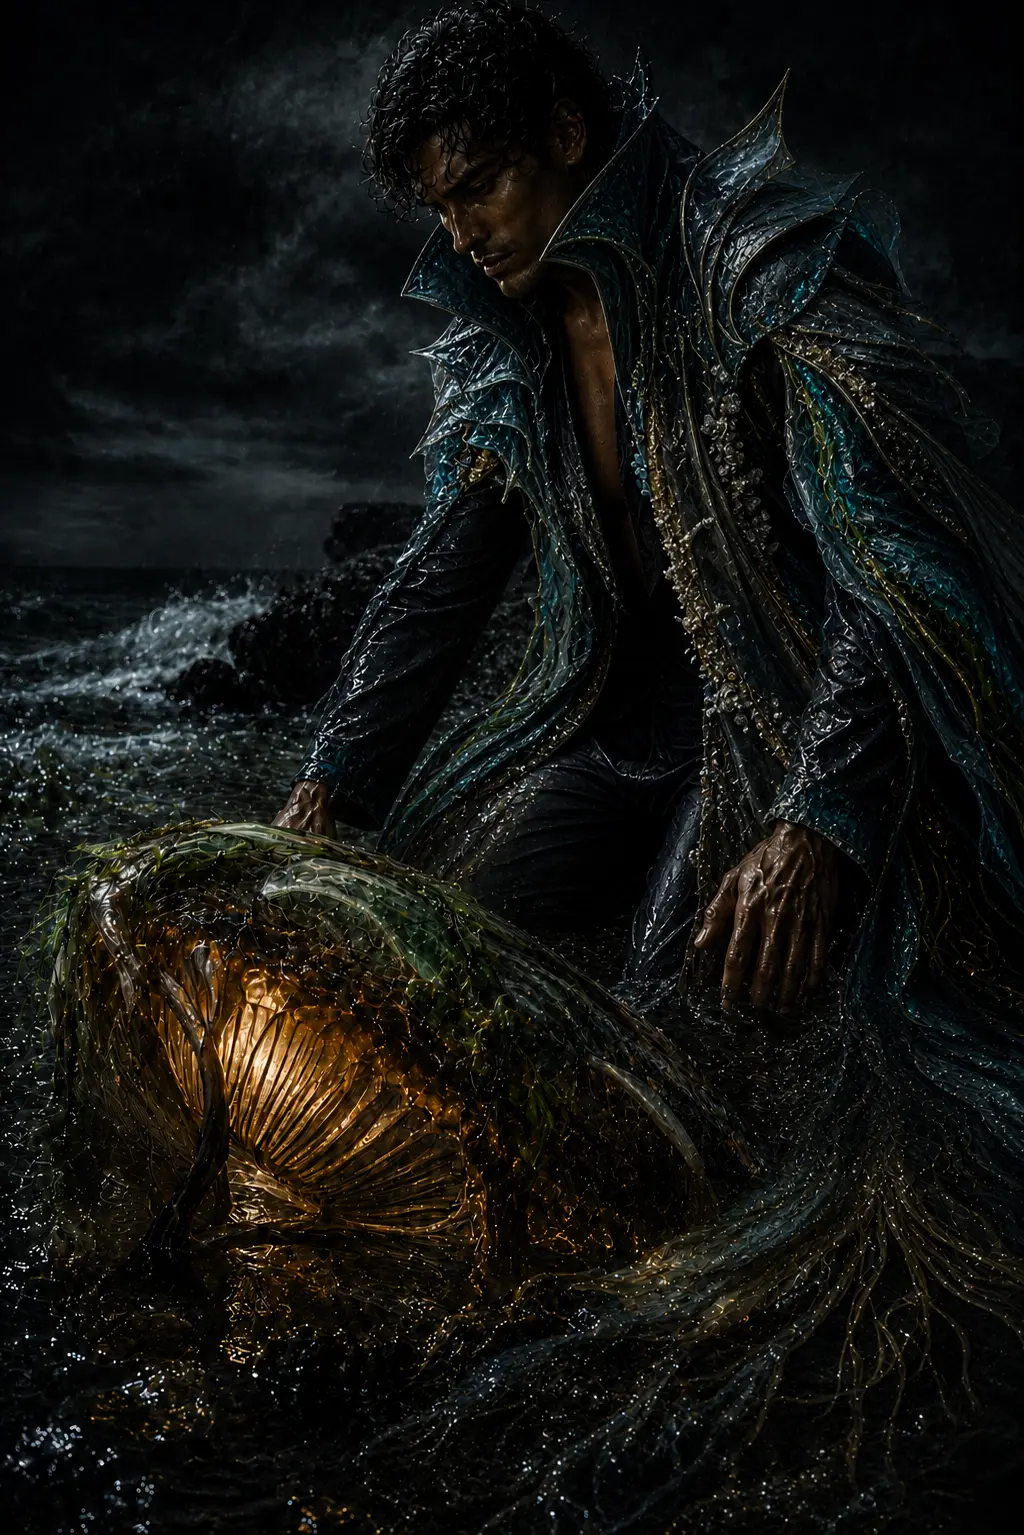
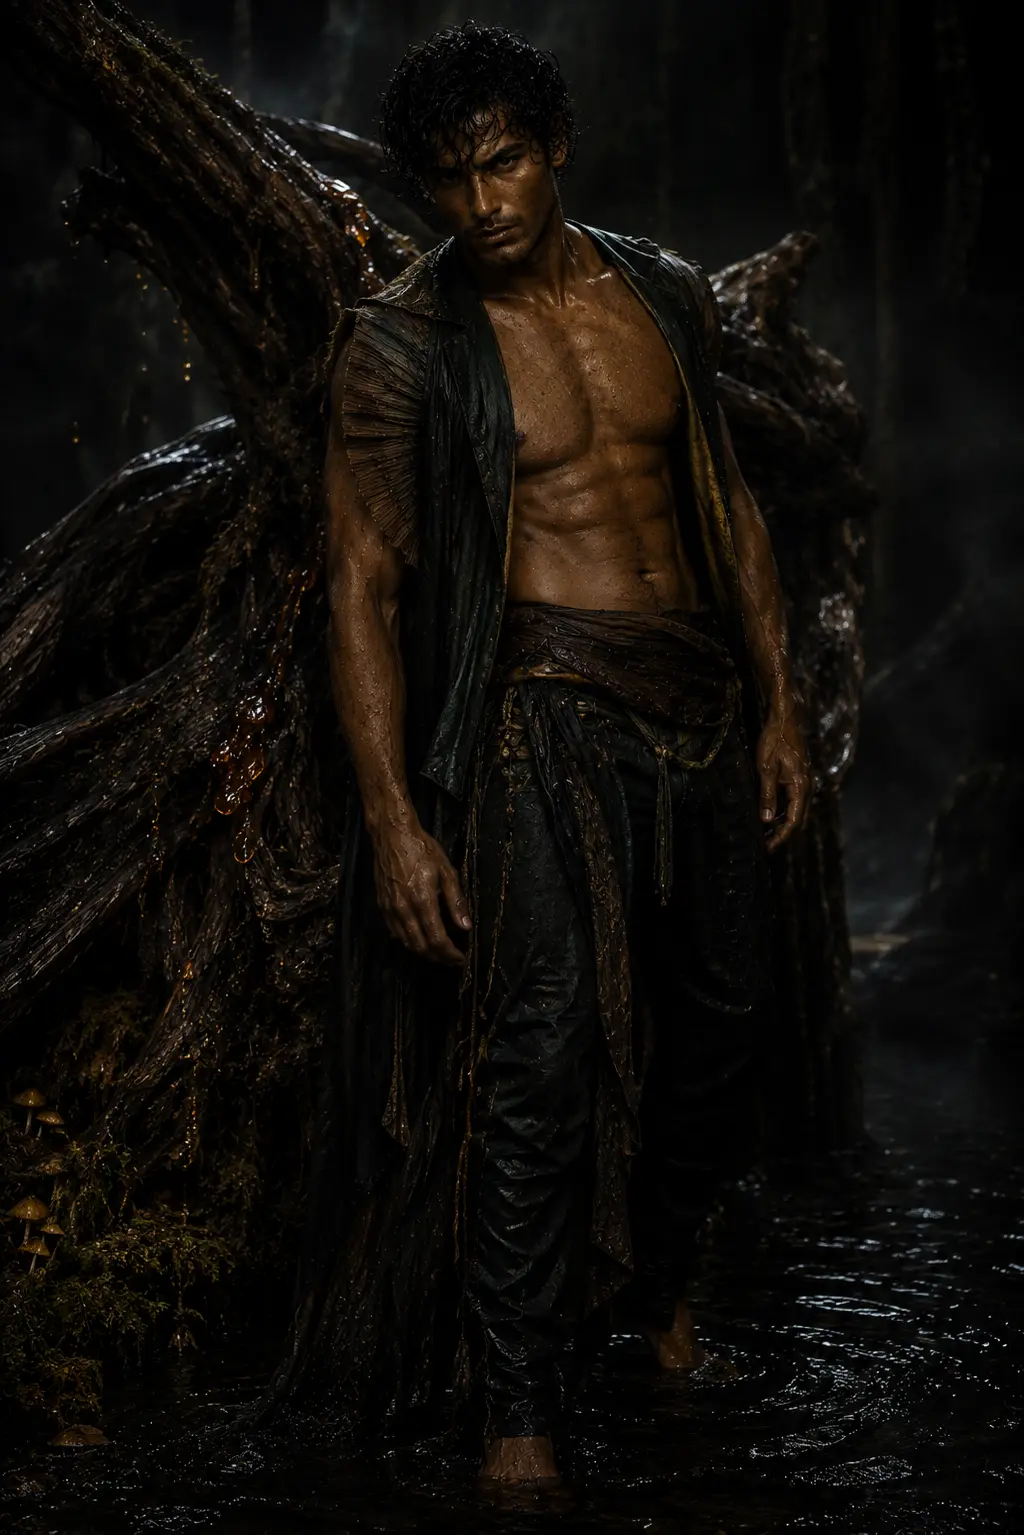
Refine Sovereign Tide campaign portrait

diff --git a/index.html b/index.html
@@ -355,7 +355,7 @@
 <div class="badge">In Development</div><div class="card-art"><img alt="Dark cherries and plums glowing in an ancient evergreen forest" class="art-svg" decoding="async" loading="lazy" src="assets/crimson-grove.webp?v=20260823-portraits"/></div><div class="card-copy"><div class="eyebrow">Dark orchard / cold conifer woods</div><h3>CRIMSON GROVE</h3><div class="tension">Fruit burning red beneath ancient trees.</div><div class="notes">Black cherry · plum · dark rose · evergreen · cold woods · amber</div><span class="card-cta">Enter the story <span aria-hidden="true">→</span></span></div>
 </a>
 <a aria-label="Enter the Sovereign Tide story" class="card" href="fragrances/sovereign-tide/">
-<div class="badge">In Development</div><div class="card-art"><img alt="Marine algae, wet earth, mushroom, driftwood, resin and storm-dark water" class="art-svg" decoding="async" loading="lazy" src="assets/sovereign-tide.webp?v=20260823-portraits"/></div><div class="card-copy"><div class="eyebrow">Polished natural luxury / strange marine earth</div><h3>SOVEREIGN TIDE</h3><div class="tension">The sea meets the living floor of the forest.</div><div class="notes">Marine algae · wet earth · mushroom · driftwood · sandalwood · resin</div><span class="card-cta">Enter the story <span aria-hidden="true">→</span></span></div>
+<div class="badge">In Development</div><div class="card-art"><img alt="Marine algae, wet earth, mushroom, driftwood, resin and storm-dark water" class="art-svg" decoding="async" loading="lazy" src="assets/sovereign-tide.webp?v=20260823-arcaneum-v2"/></div><div class="card-copy"><div class="eyebrow">Polished natural luxury / strange marine earth</div><h3>SOVEREIGN TIDE</h3><div class="tension">The sea meets the living floor of the forest.</div><div class="notes">Marine algae · wet earth · mushroom · driftwood · sandalwood · resin</div><span class="card-cta">Enter the story <span aria-hidden="true">→</span></span></div>
 </a>
 <a aria-label="Enter the Velvet Pulse story" class="card" href="fragrances/velvet-pulse/">
 <div class="badge">In Development</div><div class="card-art"><img alt="Rose petals, green leaves, velvet, powder and intimate warm musk" class="art-svg" decoding="async" loading="lazy" src="assets/velvet-pulse.webp?v=20260823-portraits"/></div><div class="card-copy"><div class="eyebrow">Sparkling motion / plush skin intimacy</div><h3>VELVET PULSE</h3><div class="tension">Electric green light beneath soft skin.</div><div class="notes">Green leaves · airy rose · suede · powder · sandalwood · skin musk</div><span class="card-cta">Enter the story <span aria-hidden="true">→</span></span></div>

diff --git a/fragrances/sovereign-tide/index.html b/fragrances/sovereign-tide/index.html
@@ -10,7 +10,7 @@
   <link rel="preconnect" href="https://fonts.googleapis.com" />
   <link rel="preconnect" href="https://fonts.gstatic.com" crossorigin />
   <link href="https://fonts.googleapis.com/css2?family=Cormorant+Garamond:wght@400;500;600&amp;family=Manrope:wght@300;400;500;600&amp;display=swap" rel="stylesheet" />
-  <link rel="preload" as="image" href="../../assets/sovereign-tide.webp?v=20260823-portraits" />
+  <link rel="preload" as="image" href="../../assets/sovereign-tide.webp?v=20260823-arcaneum-v2" />
   <link rel="stylesheet" href="../story.css" />
   <script type="module" src="../story.js"></script>
 </head>
@@ -23,7 +23,7 @@
   </header>
 
   <main>
-    <section class="story-hero" style="--scene:url('../../assets/sovereign-tide.webp?v=20260823-portraits');--scene-position:center;--scene-position-mobile:50% top">
+    <section class="story-hero" style="--scene:url('../../assets/sovereign-tide.webp?v=20260823-arcaneum-v2');--scene-position:center;--scene-position-mobile:50% top">
       <span class="sr-only">Marine algae, wet earth, mushroom, driftwood, resin, and storm-dark water.</span>
       <div class="hero-content shell">
         <div class="hero-copy" data-reveal>

diff --git a/fragrances/wild-sovereign/index.html b/fragrances/wild-sovereign/index.html
@@ -136,7 +136,7 @@
 
   <footer class="story-footer">
     <div class="shell">
-      <a class="next-story" href="../sovereign-tide/"><img src="../../assets/sovereign-tide.webp?v=20260823-portraits" alt="Sovereign Tide olfactory world" /><div><div class="eyebrow">Next World</div><h2>Sovereign Tide</h2></div><span class="next-arrow" aria-hidden="true">→</span></a>
+      <a class="next-story" href="../sovereign-tide/"><img src="../../assets/sovereign-tide.webp?v=20260823-arcaneum-v2" alt="Sovereign Tide olfactory world" /><div><div class="eyebrow">Next World</div><h2>Sovereign Tide</h2></div><span class="next-arrow" aria-hidden="true">→</span></a>
       <div class="footer-line"><span>© 2026 ARCANEUM PERFUMES</span><a href="../../index.html#collection">Return to the collection</a><span>Independent Fine Fragrance</span></div>
     </div>
   </footer>
